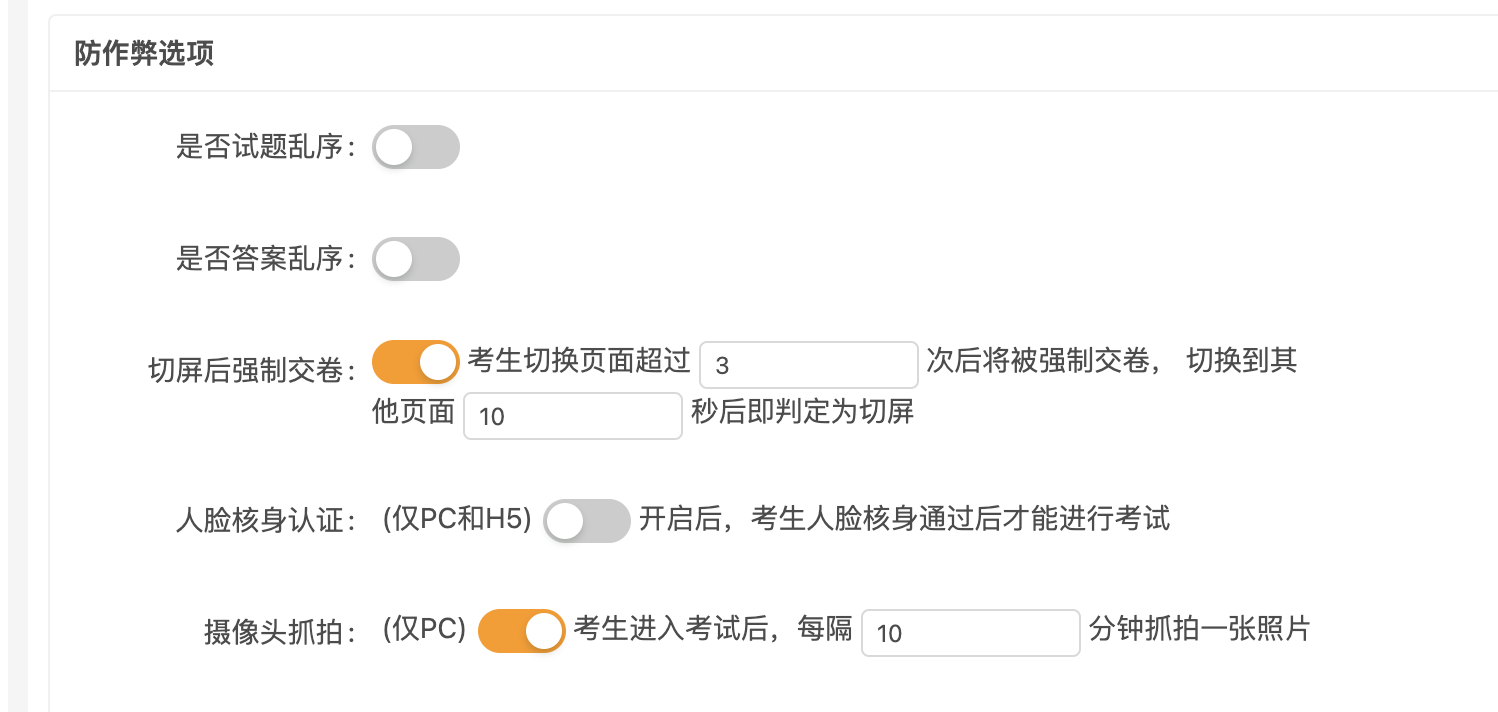
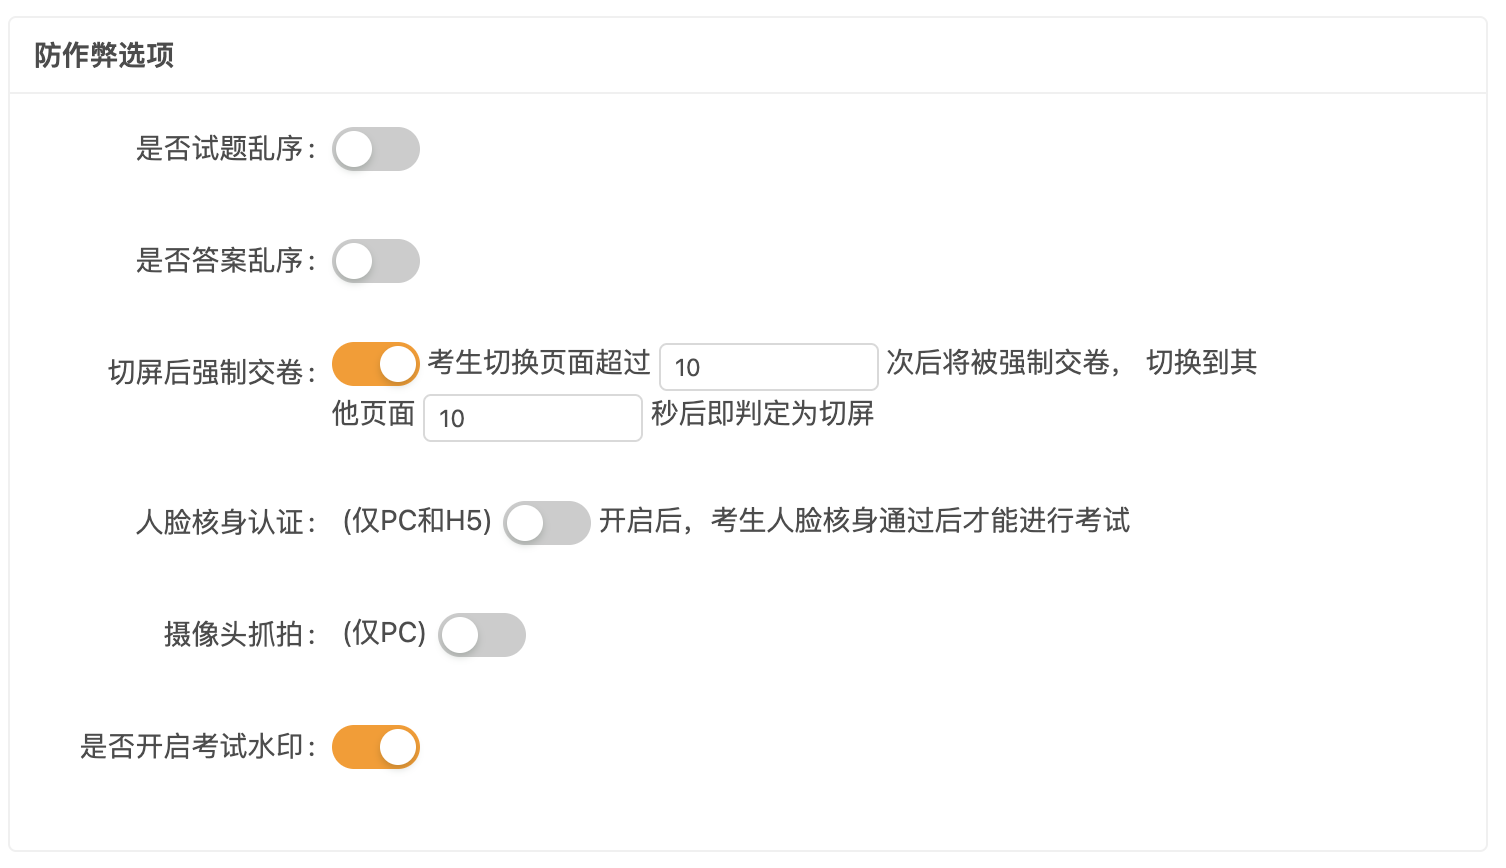
init

diff --git a/README.md b/README.md
@@ -2,7 +2,7 @@
 
 ##  一、产品简介
 
-	云学考学习考试系统是基于springboot+vue3+uniapp开发的在线教育平台。设计美观、前后端分离、部署简单，支持课程购买、课程学习、直播课程、考试付费、在线考试、在线练习、问卷调查、AI大模型、AI知识库、AI流程编排。移动端使用uniapp开发，已上线小程序、h5、android、IOS。android app已上架华为、腾讯、小米、荣耀、OPPO应用商店。
+	云学考学习考试系统是基于springboot+vue3+uniapp开发的在线教育平台。设计美观、前后端分离、部署简单，支持课程购买、课程学习、直播课程、考试付费、在线考试、在线练习、问卷调查、监考大屏、AI大模型、AI知识库、AI流程编排。移动端使用uniapp开发，已上线小程序、h5、android、IOS。android app已上架华为、腾讯、小米、荣耀、OPPO应用商店。
 
 <img src="images/云学考管理端思维导图.jpg" alt="pc_admin" style="zoom:10%;" />
 
@@ -30,6 +30,7 @@
 | 14   | JDK            | 17.0.16                      |
 | 15   | mybatis-plus   | 3.5.12                       |
 | 16   | pnpm           | 10.18.3                      |
+| 17   | WebRTC         | -                            |
 
 ## 三、开发环境
 
@@ -140,7 +141,7 @@ PC端：
 
 ![WX20240228-130832@2x](images/WX20240228-130832@2x.png)
 
-### 8.在线考试美观大方
+### 8.在线考试
 
 	考试列表：
 
@@ -176,7 +177,13 @@ PC端：
 
 5.摄像头抓拍：考生进入考试后，每隔一段时间抓拍一张照片。
 
-### 11.考试⼈员灵活配置
+6.考试水印：防止试题泄露。
+
+### 11.监考大屏
+
+![Dec-17-202514-33-00](images/Dec-17-202514-33-00.gif)
+
+### 12.考试⼈员灵活配置
 
  支持以下三种配置：
 
@@ -186,7 +193,7 @@ PC端：
 
  指定人员：只有勾选的人员才可以考试。
 
-### 12.**系统评分与人工阅卷结合**
+### 13.**系统评分与人工阅卷结合**
 
 1.单选题、多选题、判断题，这种具有唯一答案的客观题，系统会根据试题的标准答案直接作出判断，并计算得分。
 
@@ -202,17 +209,17 @@ PC端：
 
 ![image-20230522120509204](images/image-20230522120509204.png)
 
-### 13.**考试结果一览无余**
+### 14.**考试结果一览无余**
 
    在考试阅卷结束后，如果不需要人工阅卷时，系统自动显示成绩，考生也可以直接通过“我的成绩”查询。如果包含主观题则需要阅卷人阅卷完成才能查看最终成绩。
 
 ![WX20231117-162502@2x](images/WX20231117-162502@2x.png)
 
-### 14.多维度统计成绩
+### 15.多维度统计成绩
 
    呈现考试的成绩、用时、正确率、得分率、是否及格，所有考生本次考试的基本情况一目了然，管理员可免去手动计算的时间，使工作效率更高。对于考生多次参加考试的情况，系统生成的成绩统计报表，默认根据最好成绩统计，报表中会按考生最好的一次考试成绩进行排名，还能看到考生姓名、参加次数。
 
-### 15.问卷调查
+### 16.问卷调查
 
 问卷设计器：
 
@@ -222,7 +229,7 @@ PC端：
 
 ![WX20250425-133629@2x](images/WX20250425-133629@2x.png)
 
-### 16.学习考试证书
+### 17.学习考试证书
 
 	课程学完，考试通过自动颁发证书。
 
@@ -232,6 +239,6 @@ PC端：
 
 1. 邮箱：[1041114134@qq.com](mailto:1041114134@qq.com) 。
 
-2. 联系微信：FinelyYang，或扫码加作者好友。
+2. 扫码加作者好友。
 
 <img src="images/WX20241114-110128@2x.png" alt="WX20241114-110128@2x" style="zoom: 10%;" />                                
